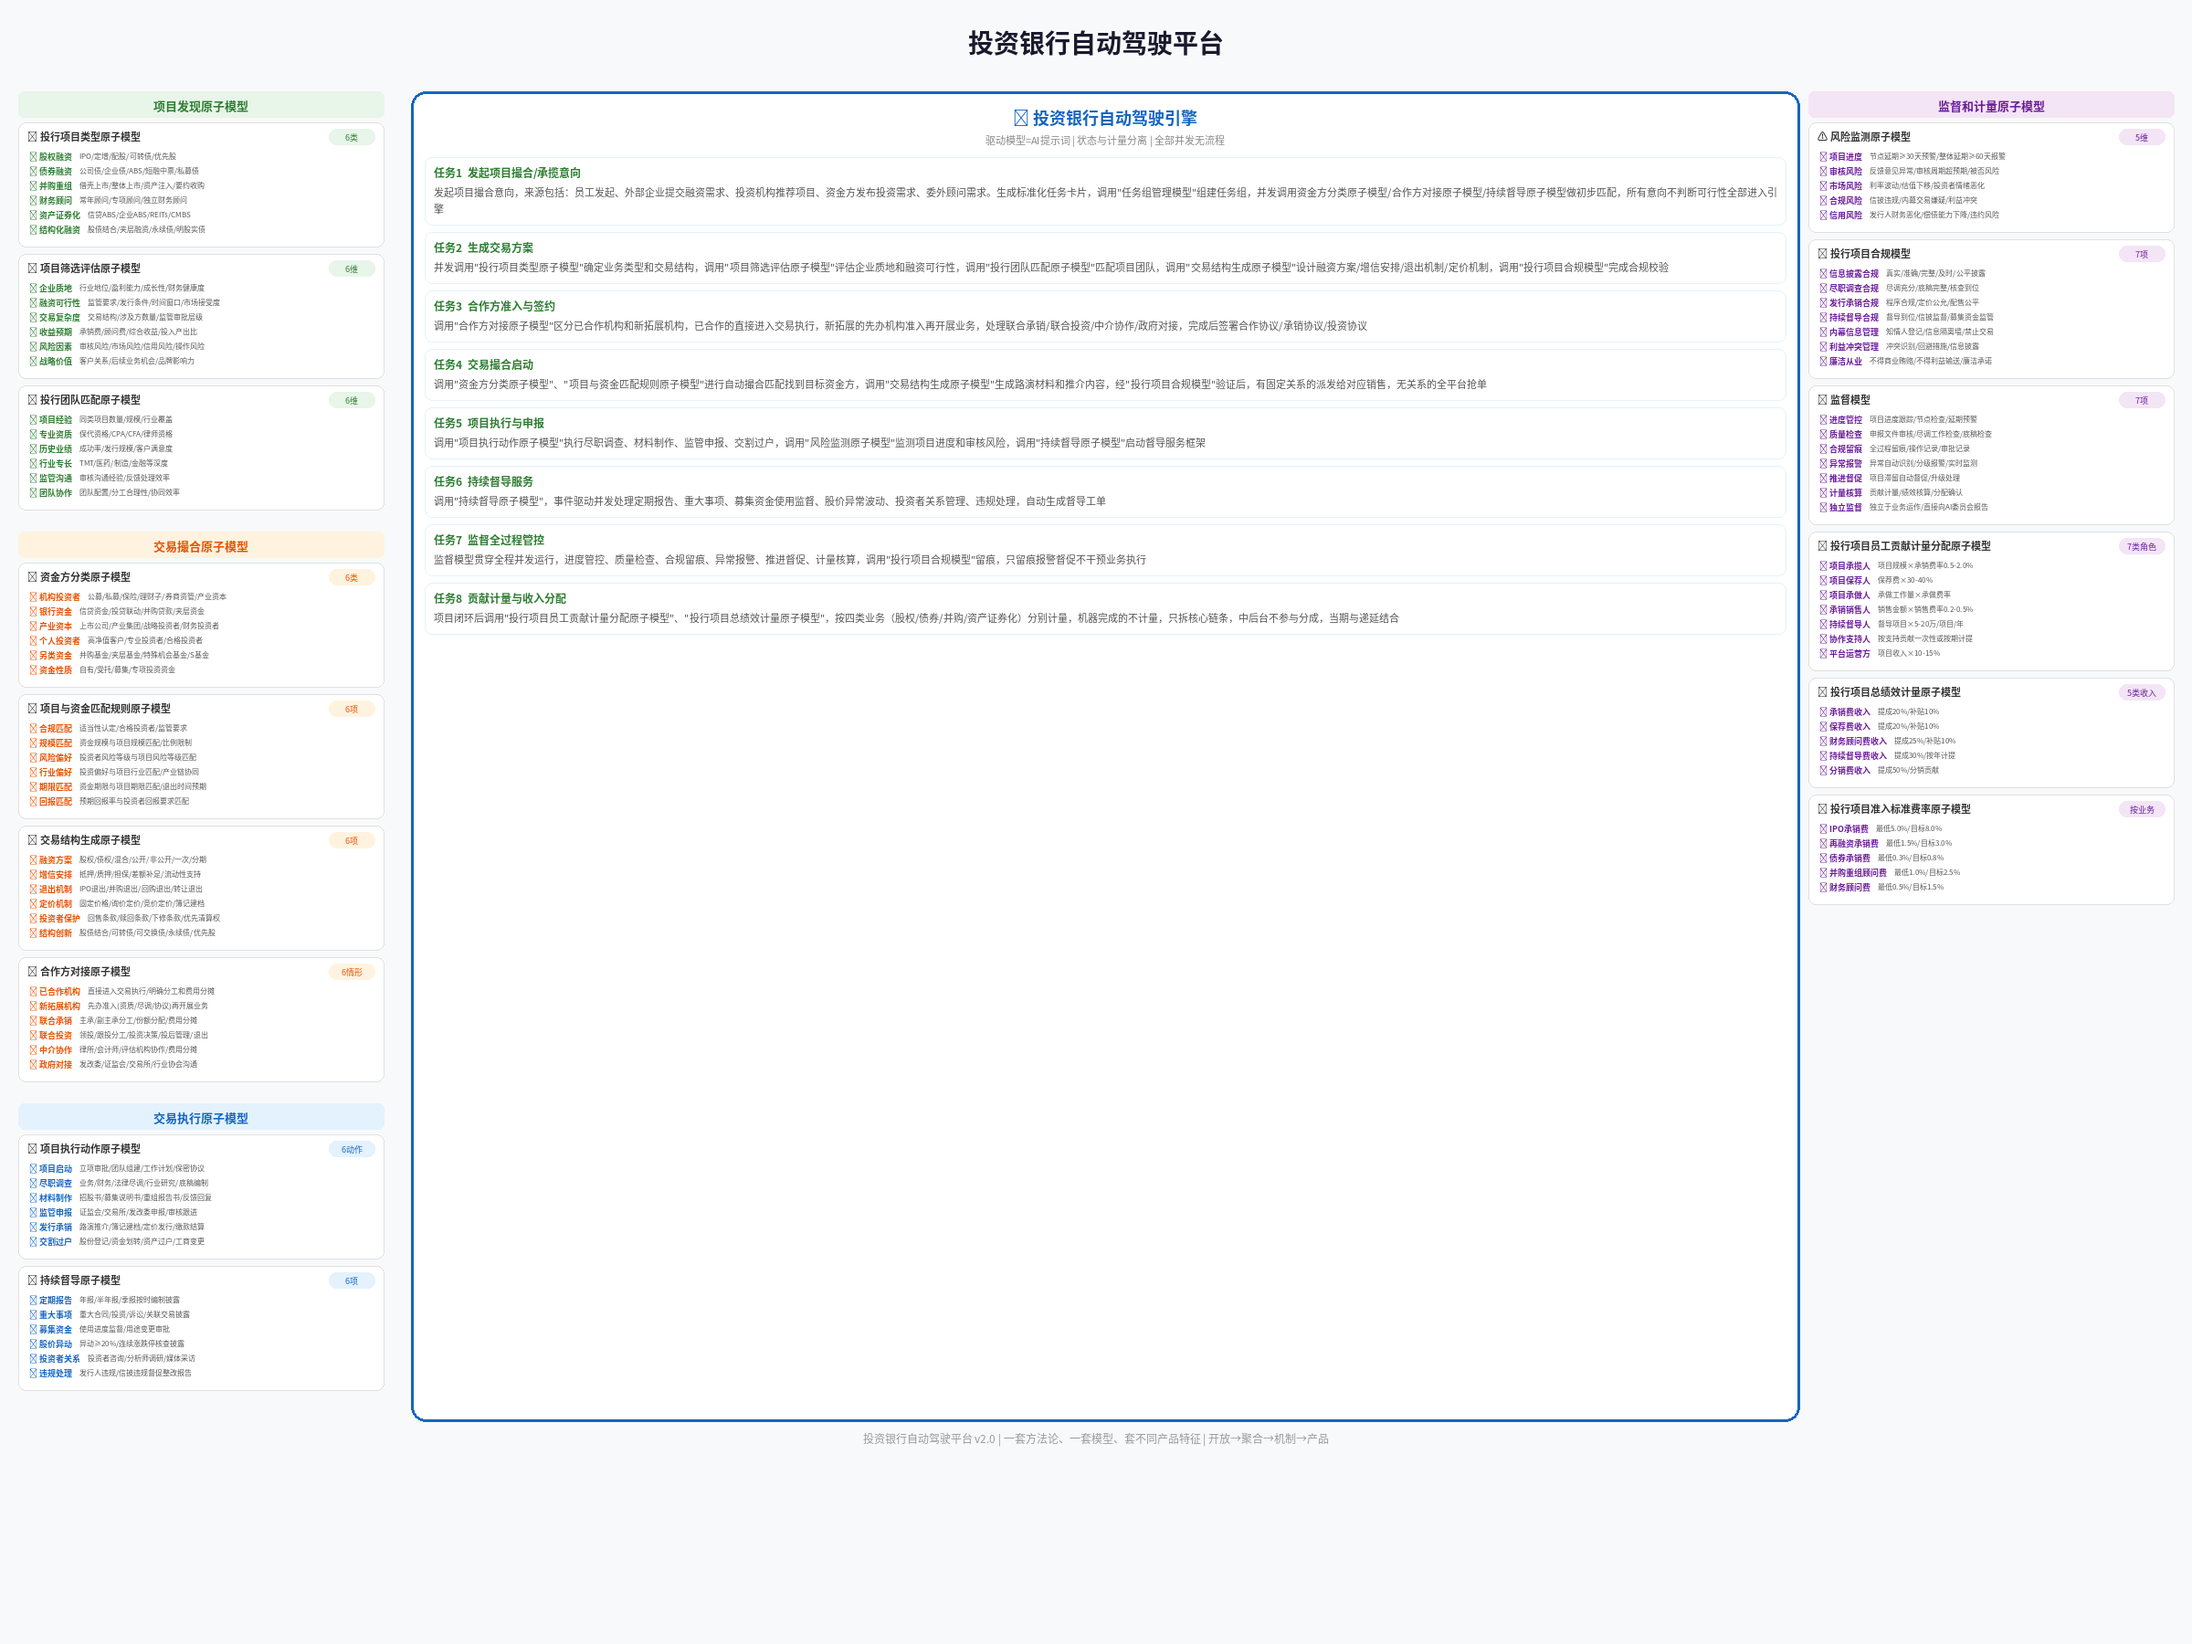
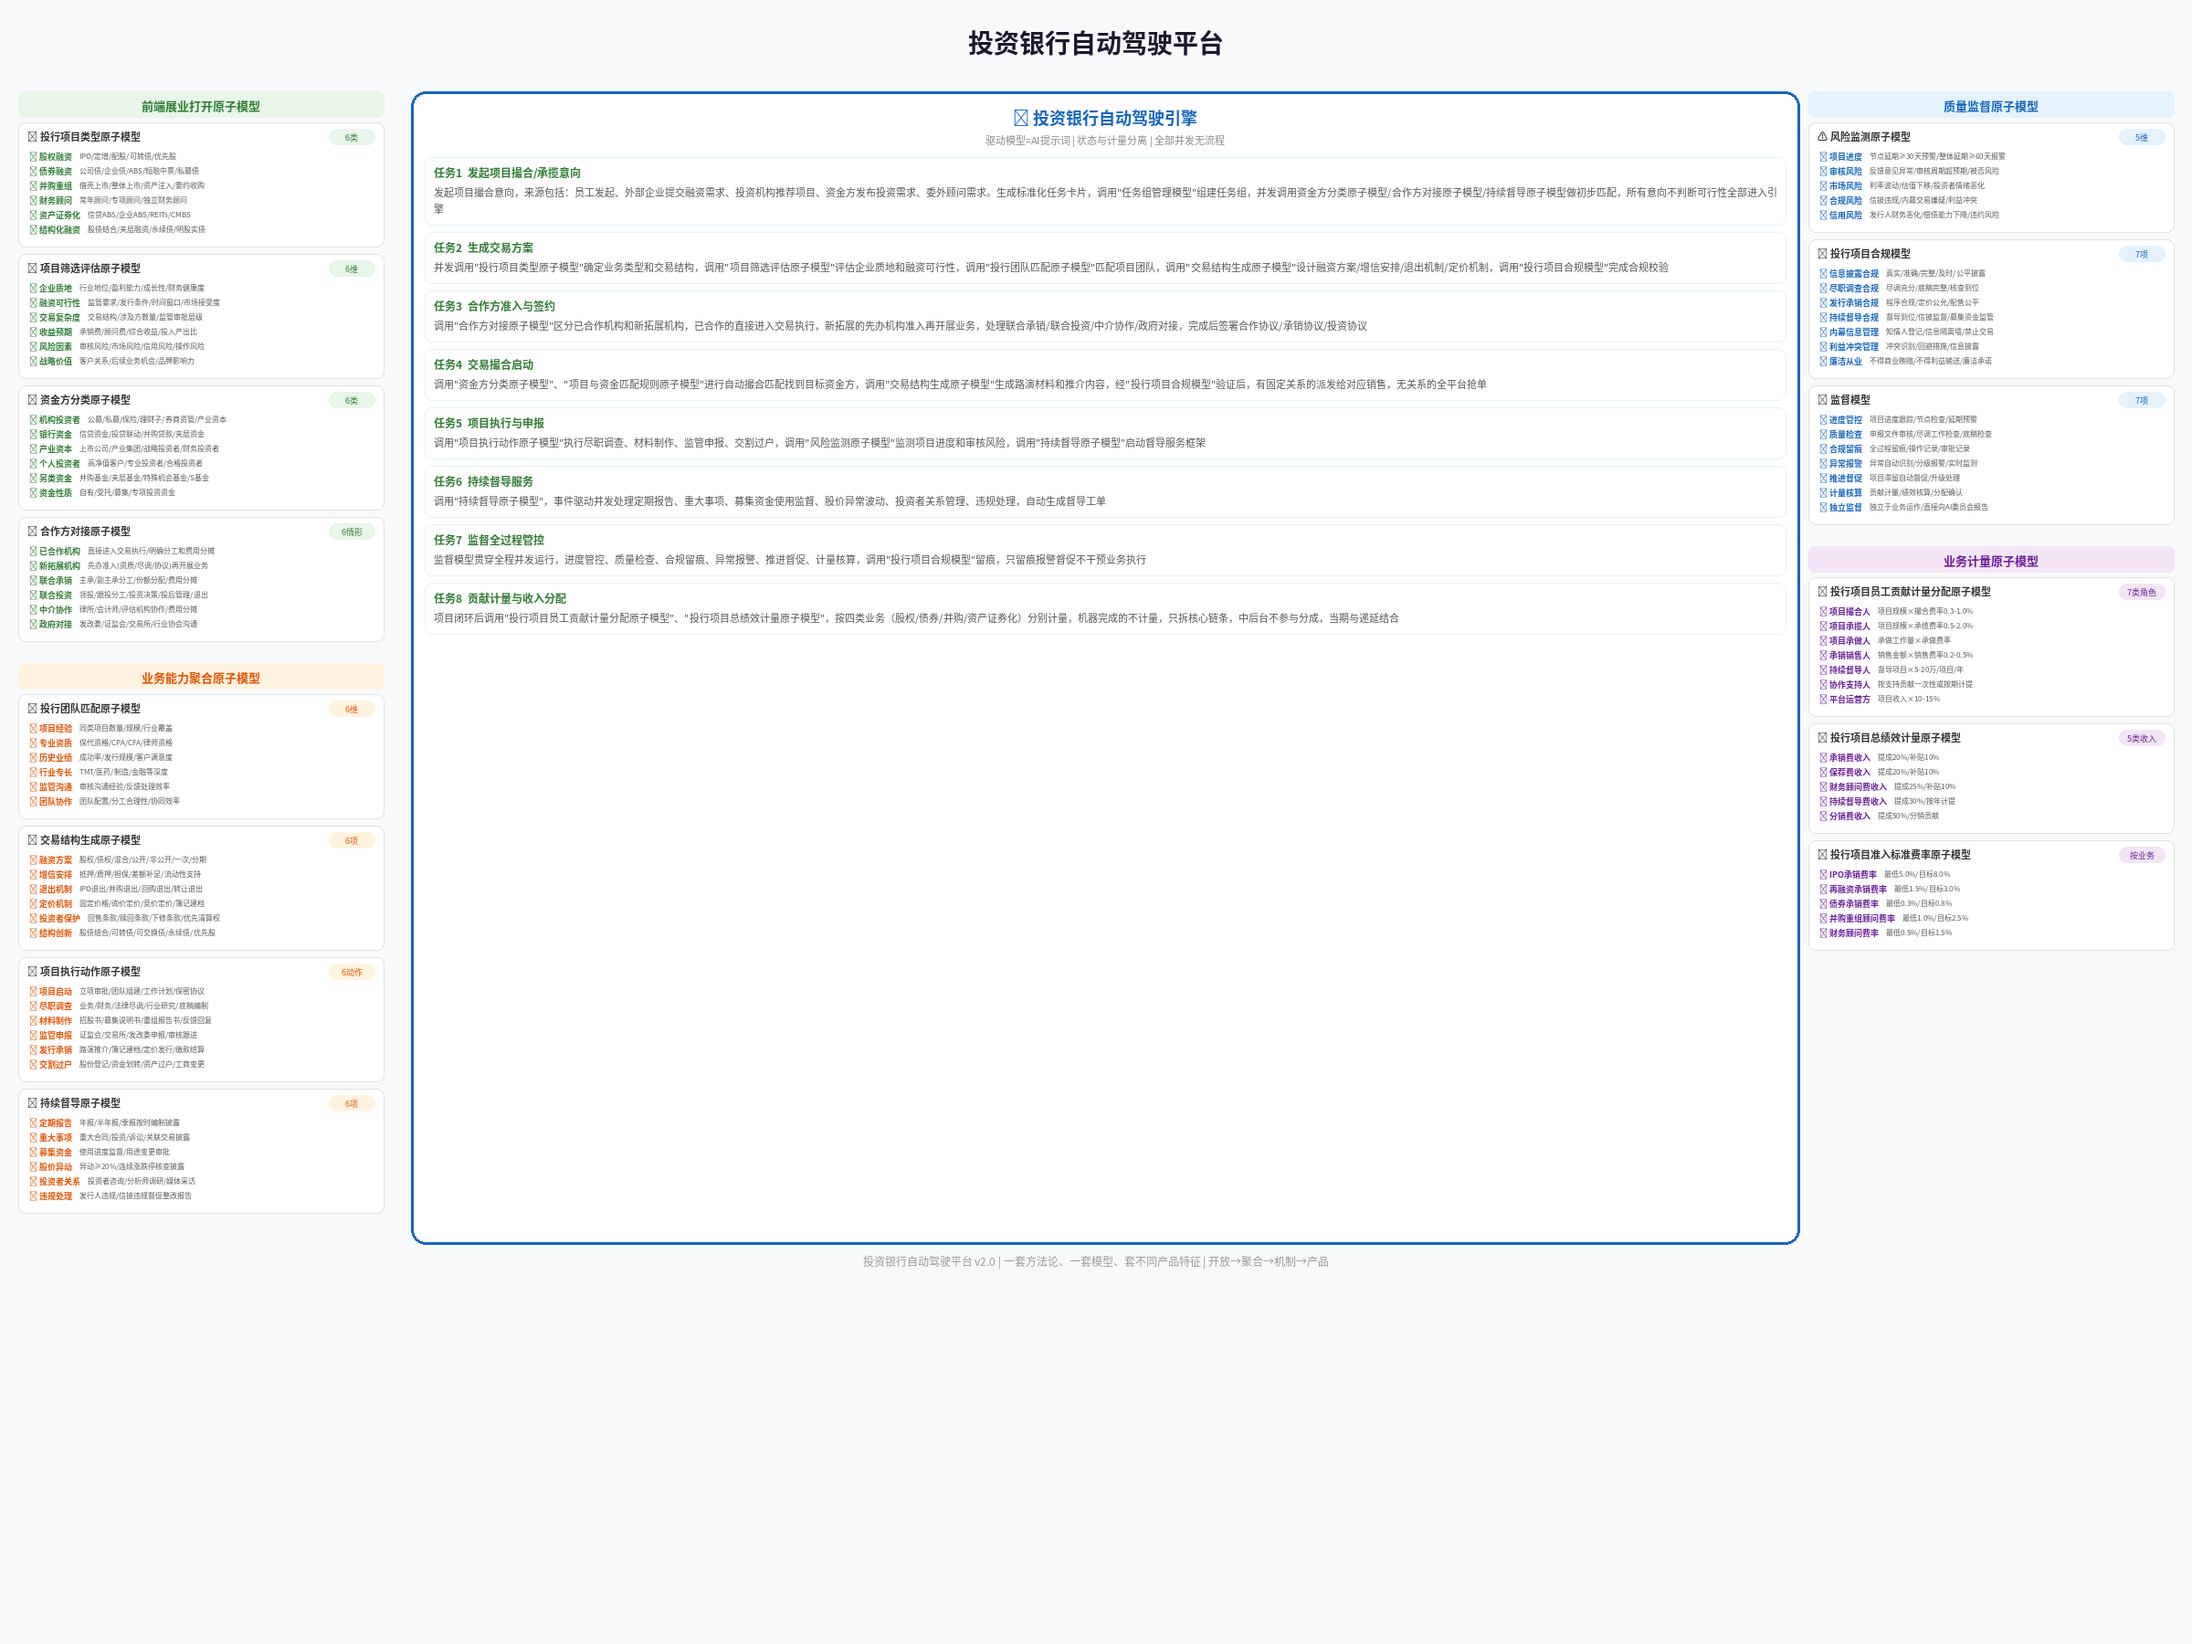
更新：投行方案左侧整合为前端展业+业务能力聚合，右侧分质量监督和业务计量

diff --git a/diagrams/generate_ib_diagram_v2.py b/diagrams/generate_ib_diagram_v2.py
@@ -91,7 +91,7 @@ ENGINE_Y = 100
 
 sections_left = [
     {
-        'title': '项目发现原子模型',
+        'title': '前端展业打开原子模型',
         'sec': 'sec1',
         'models': [
             {
@@ -119,24 +119,6 @@ sections_left = [
                 ]
             },
             {
-                'title': '👤 投行团队匹配原子模型',
-                'tag': '6维',
-                'items': [
-                    ('项目经验', '同类项目数量/规模/行业覆盖'),
-                    ('专业资质', '保代资格/CPA/CFA/律师资格'),
-                    ('历史业绩', '成功率/发行规模/客户满意度'),
-                    ('行业专长', 'TMT/医药/制造/金融等深度'),
-                    ('监管沟通', '审核沟通经验/反馈处理效率'),
-                    ('团队协作', '团队配置/分工合理性/协同效率'),
-                ]
-            },
-        ]
-    },
-    {
-        'title': '交易撮合原子模型',
-        'sec': 'sec2',
-        'models': [
-            {
                 'title': '💰 资金方分类原子模型',
                 'tag': '6类',
                 'items': [
@@ -146,30 +128,6 @@ sections_left = [
                     ('个人投资者', '高净值客户/专业投资者/合格投资者'),
                     ('另类资金', '并购基金/夹层基金/特殊机会基金/S基金'),
                     ('资金性质', '自有/受托/募集/专项投资资金'),
-                ]
-            },
-            {
-                'title': '🎯 项目与资金匹配规则原子模型',
-                'tag': '6项',
-                'items': [
-                    ('合规匹配', '适当性认定/合格投资者/监管要求'),
-                    ('规模匹配', '资金规模与项目规模匹配/比例限制'),
-                    ('风险偏好', '投资者风险等级与项目风险等级匹配'),
-                    ('行业偏好', '投资偏好与项目行业匹配/产业链协同'),
-                    ('期限匹配', '资金期限与项目期限匹配/退出时间预期'),
-                    ('回报匹配', '预期回报率与投资者回报要求匹配'),
-                ]
-            },
-            {
-                'title': '📝 交易结构生成原子模型',
-                'tag': '6项',
-                'items': [
-                    ('融资方案', '股权/债权/混合/公开/非公开/一次/分期'),
-                    ('增信安排', '抵押/质押/担保/差额补足/流动性支持'),
-                    ('退出机制', 'IPO退出/并购退出/回购退出/转让退出'),
-                    ('定价机制', '固定价格/询价定价/竞价定价/簿记建档'),
-                    ('投资者保护', '回售条款/赎回条款/下修条款/优先清算权'),
-                    ('结构创新', '股债结合/可转债/可交换债/永续债/优先股'),
                 ]
             },
             {
@@ -187,9 +145,33 @@ sections_left = [
         ]
     },
     {
-        'title': '交易执行原子模型',
-        'sec': 'sec3',
+        'title': '业务能力聚合原子模型',
+        'sec': 'sec2',
         'models': [
+            {
+                'title': '👤 投行团队匹配原子模型',
+                'tag': '6维',
+                'items': [
+                    ('项目经验', '同类项目数量/规模/行业覆盖'),
+                    ('专业资质', '保代资格/CPA/CFA/律师资格'),
+                    ('历史业绩', '成功率/发行规模/客户满意度'),
+                    ('行业专长', 'TMT/医药/制造/金融等深度'),
+                    ('监管沟通', '审核沟通经验/反馈处理效率'),
+                    ('团队协作', '团队配置/分工合理性/协同效率'),
+                ]
+            },
+            {
+                'title': '📝 交易结构生成原子模型',
+                'tag': '6项',
+                'items': [
+                    ('融资方案', '股权/债权/混合/公开/非公开/一次/分期'),
+                    ('增信安排', '抵押/质押/担保/差额补足/流动性支持'),
+                    ('退出机制', 'IPO退出/并购退出/回购退出/转让退出'),
+                    ('定价机制', '固定价格/询价定价/竞价定价/簿记建档'),
+                    ('投资者保护', '回售条款/赎回条款/下修条款/优先清算权'),
+                    ('结构创新', '股债结合/可转债/可交换债/永续债/优先股'),
+                ]
+            },
             {
                 'title': '📋 项目执行动作原子模型',
                 'tag': '6动作',
@@ -220,8 +202,8 @@ sections_left = [
 
 sections_right = [
     {
-        'title': '监督和计量原子模型',
-        'sec': 'sec4',
+        'title': '质量监督原子模型',
+        'sec': 'sec3',
         'models': [
             {
                 'title': '⚠ 风险监测原子模型',
@@ -260,12 +242,18 @@ sections_right = [
                     ('独立监督', '独立于业务运作/直接向AI委员会报告'),
                 ]
             },
+        ]
+    },
+    {
+        'title': '业务计量原子模型',
+        'sec': 'sec4',
+        'models': [
             {
                 'title': '⚖ 投行项目员工贡献计量分配原子模型',
                 'tag': '7类角色',
                 'items': [
-                    ('项目承揽人', '项目规模×承销费率0.5-2.0%'),
-                    ('项目保荐人', '保荐费×30-40%'),
+                    ('项目撮合人', '项目规模×撮合费率0.3-1.0%'),
+                    ('项目承揽人', '项目规模×承揽费率0.5-2.0%'),
                     ('项目承做人', '承做工作量×承做费率'),
                     ('承销销售人', '销售金额×销售费率0.2-0.5%'),
                     ('持续督导人', '督导项目×5-20万/项目/年'),
@@ -288,11 +276,11 @@ sections_right = [
                 'title': '💰 投行项目准入标准费率原子模型',
                 'tag': '按业务',
                 'items': [
-                    ('IPO承销费', '最低5.0%/目标8.0%'),
-                    ('再融资承销费', '最低1.5%/目标3.0%'),
-                    ('债券承销费', '最低0.3%/目标0.8%'),
-                    ('并购重组顾问费', '最低1.0%/目标2.5%'),
-                    ('财务顾问费', '最低0.5%/目标1.5%'),
+                    ('IPO承销费率', '最低5.0%/目标8.0%'),
+                    ('再融资承销费率', '最低1.5%/目标3.0%'),
+                    ('债券承销费率', '最低0.3%/目标0.8%'),
+                    ('并购重组顾问费率', '最低1.0%/目标2.5%'),
+                    ('财务顾问费率', '最低0.5%/目标1.5%'),
                 ]
             },
         ]

diff --git a/投资银行自动驾驶平台设计方案 v2.0.md b/投资银行自动驾驶平台设计方案 v2.0.md
@@ -26,7 +26,7 @@
 
 ## 二、原子模型清单
 
-### 项目发现原子模型
+### 前端展业打开原子模型
 
 #### 1. 投行项目类型原子模型
 
@@ -61,7 +61,7 @@
 | 监管沟通 | 与审核机构的沟通经验、反馈处理效率 |
 | 团队协作 | 项目团队配置、分工合理性、协同效率 |
 
-### 交易撮合原子模型
+
 
 #### 4. 资金方分类原子模型
 
@@ -107,7 +107,7 @@
 | 中介协作 | 律所/会计师/评估机构协作、费用分摊、进度协调 |
 | 政府对接 | 发改委/证监会/交易所/行业协会沟通、政策协调 |
 
-### 交易执行原子模型
+### 业务能力聚合原子模型
 
 #### 8. 项目执行动作原子模型
 
@@ -228,7 +228,7 @@
 
 ![投资银行自动驾驶平台方案](https://raw.githubusercontent.com/tangwm88/brokerage-workbench-docs/master/diagrams/投资银行自动驾驶平台方案-v2.png)
 
-> 中间为投资银行自动驾驶引擎（按状态驱动的8个任务，驱动模型=AI提示词），左侧为项目发现原子模型、交易撮合原子模型、交易执行原子模型，右侧为监督和计量原子模型。
+> 中间为投资银行自动驾驶引擎（按状态驱动的8个任务，驱动模型=AI提示词），左侧为前端展业打开原子模型、业务能力聚合原子模型，右侧为质量监督原子模型和业务计量原子模型。
 
 ### 状态驱动模型
 
